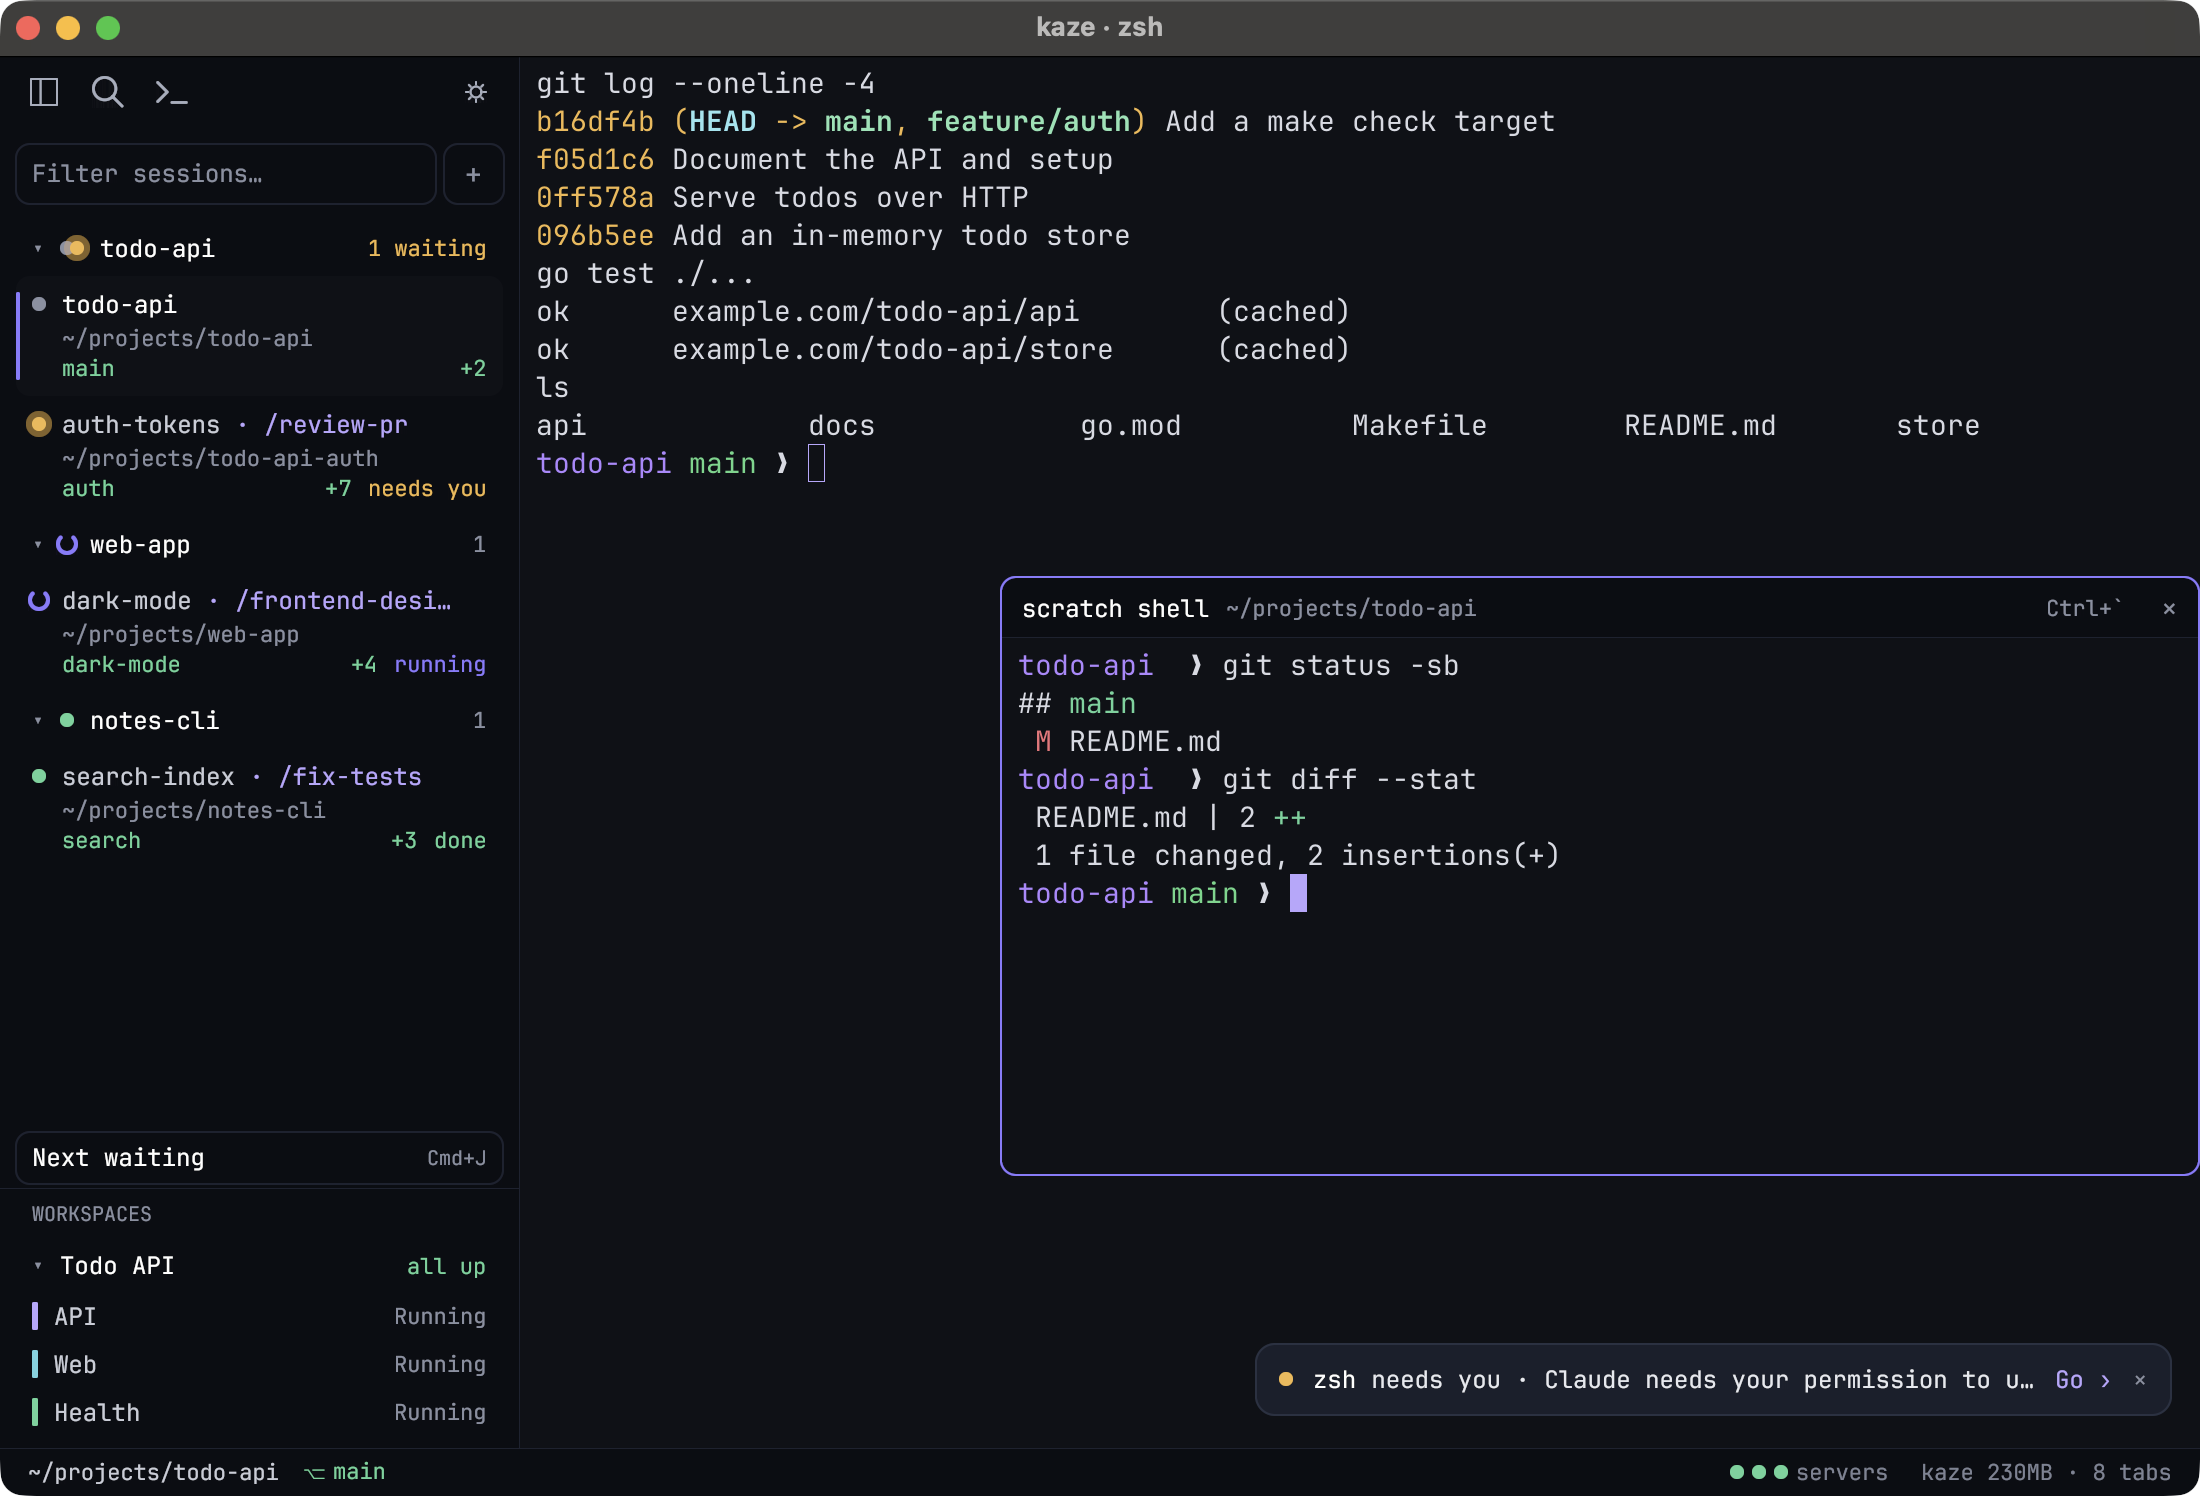
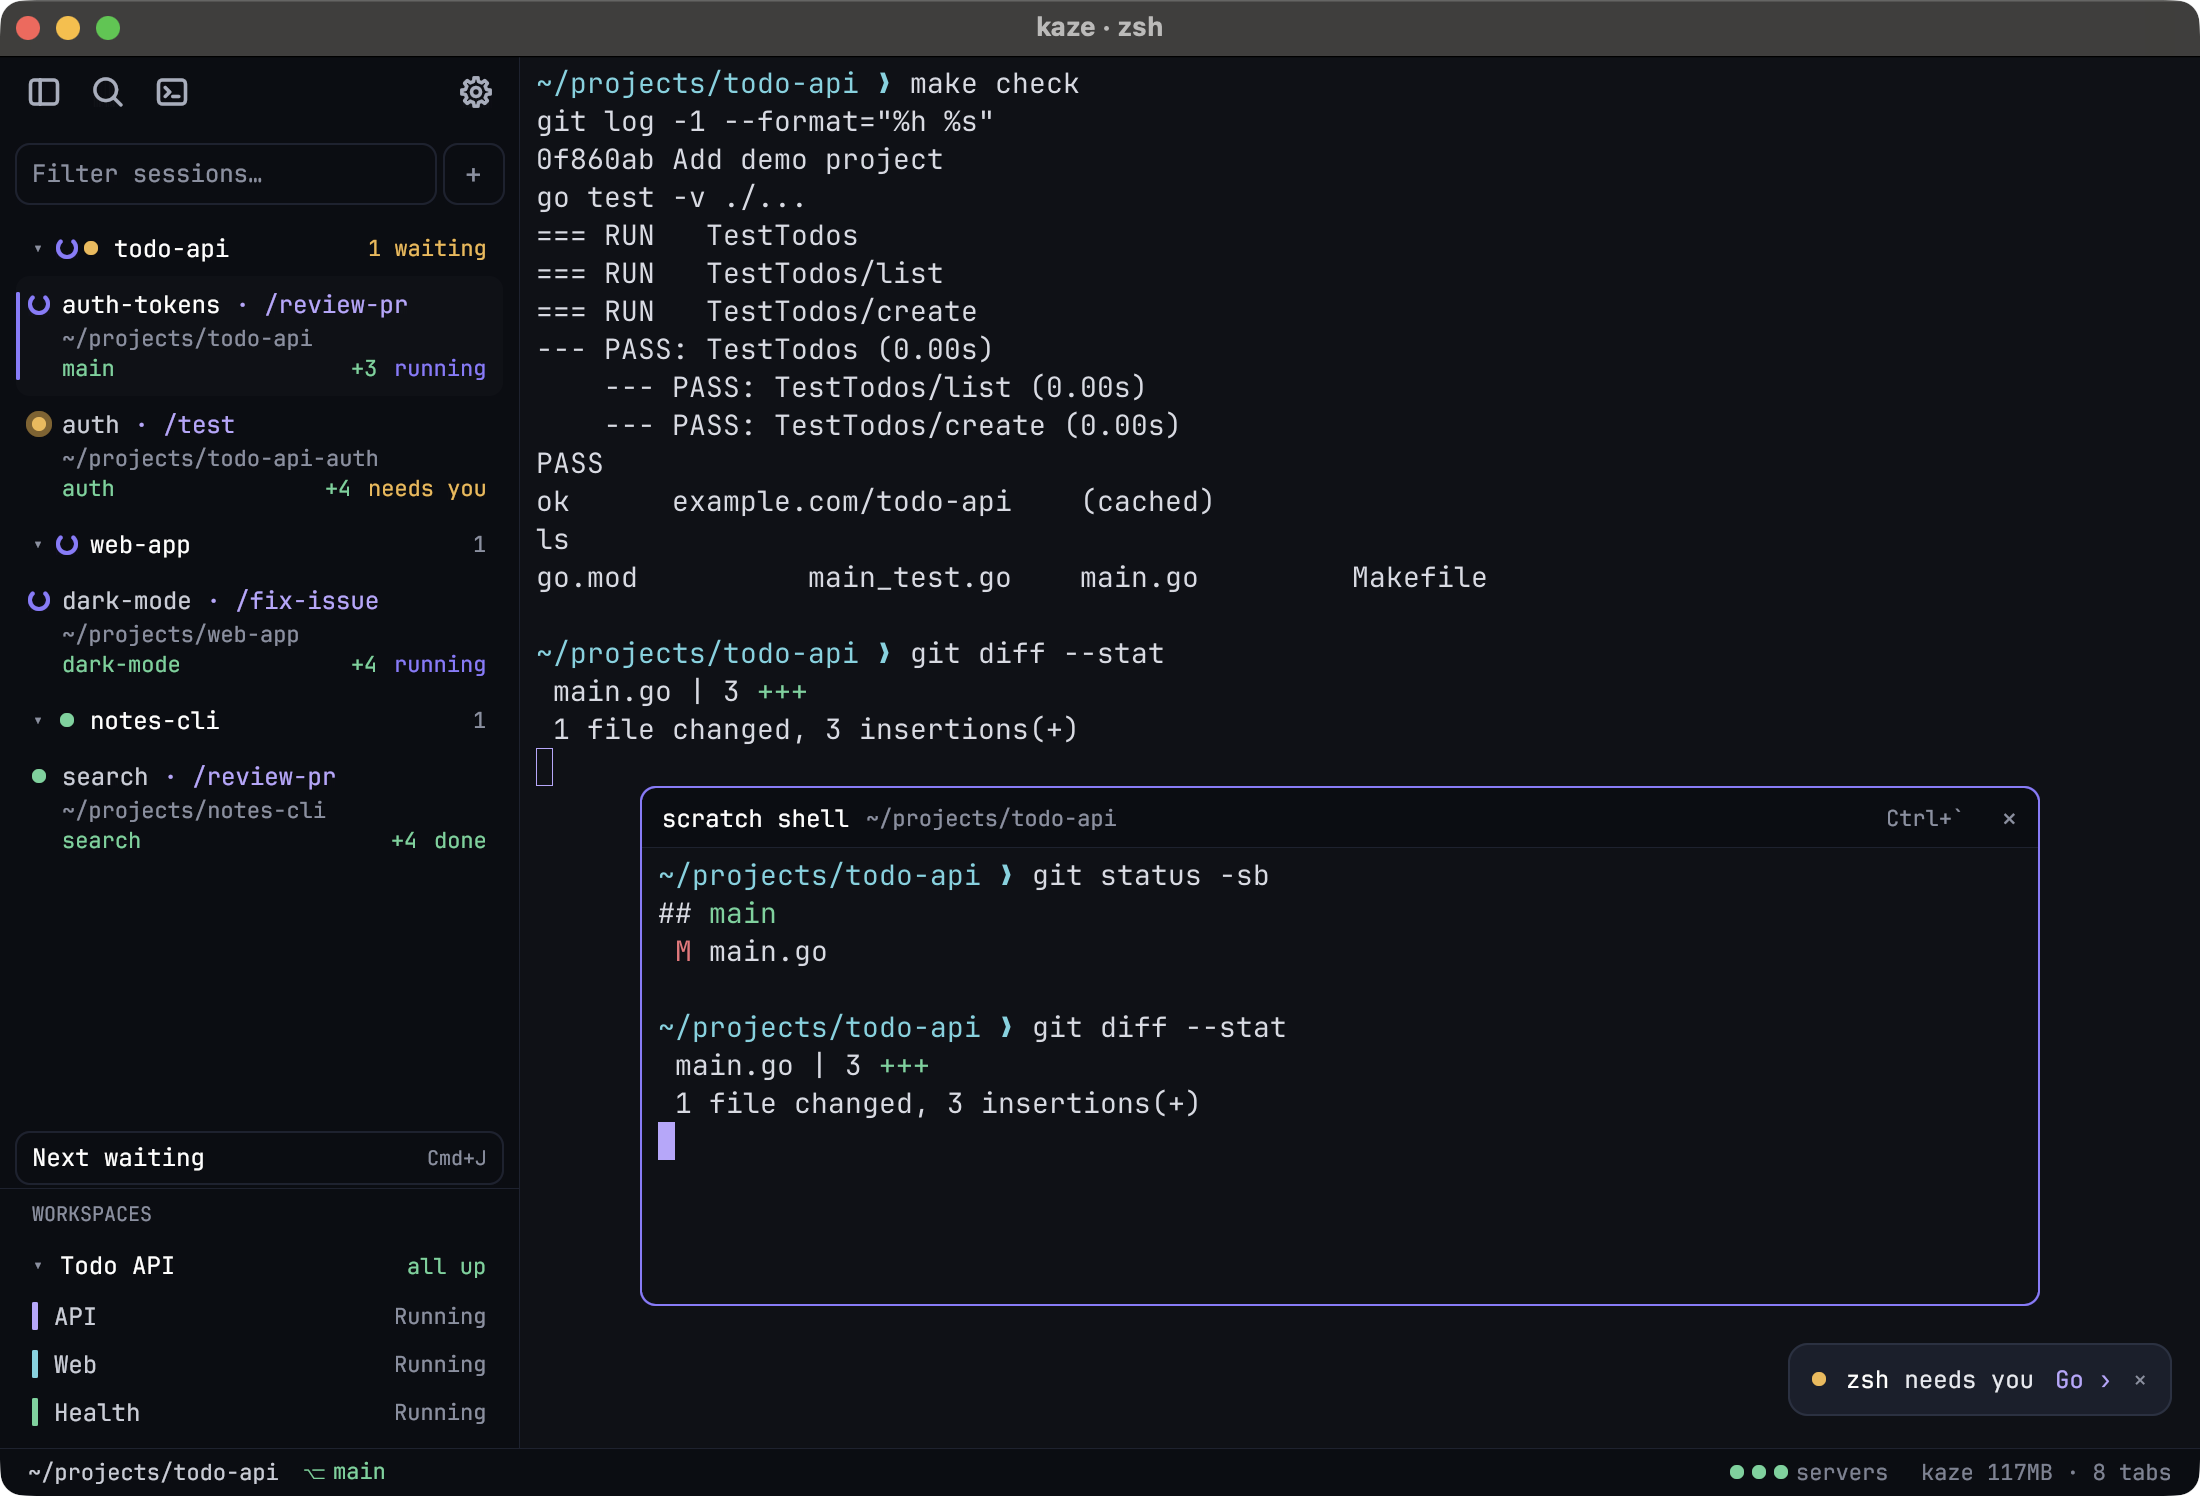
docs(site): Update the lander screenshots for Kaze 0.12

diff --git a/docs/index.html b/docs/index.html
@@ -25,9 +25,9 @@
     <div class="hero-actions"><a class="button primary" href="https://github.com/patrick-gogo/kaze-terminal/releases/latest/download/Kaze-macOS.zip" data-download="mac"><svg class="os-icon" viewBox="0 0 24 24" aria-hidden="true"><path d="M12.152 6.896c-.948 0-2.415-1.078-3.96-1.04-2.04.027-3.91 1.183-4.961 3.014-2.117 3.675-.546 9.103 1.519 12.09 1.013 1.454 2.208 3.09 3.792 3.039 1.52-.065 2.09-.987 3.935-.987 1.831 0 2.35.987 3.96.948 1.637-.026 2.676-1.48 3.676-2.948 1.156-1.688 1.636-3.325 1.662-3.415-.039-.013-3.182-1.221-3.22-4.857-.026-3.04 2.48-4.494 2.597-4.559-1.429-2.09-3.623-2.324-4.39-2.376-2-.156-3.675 1.09-4.61 1.09zM15.53 3.83c.843-1.012 1.4-2.427 1.245-3.83-1.207.052-2.662.805-3.532 1.818-.78.896-1.454 2.338-1.273 3.714 1.338.104 2.715-.688 3.559-1.701"/></svg>Download for macOS</a><a class="button secondary" href="https://github.com/patrick-gogo/kaze-terminal/releases/latest/download/Kaze-Windows-x64.zip" data-download="windows"><svg class="os-icon" viewBox="0 0 24 24" aria-hidden="true"><path d="M0 0h11.377v11.372H0zm12.623 0H24v11.372H12.623zM0 12.623h11.377V24H0zm12.623 0H24V24H12.623z"/></svg>Download for Windows</a></div>
     <p class="platform-note">Free and open source<span aria-hidden="true">/</span><b id="download-count" hidden></b><span id="download-sep" aria-hidden="true" hidden>/</span><a href="#first-launch">How to install</a><span aria-hidden="true">/</span><a href="https://github.com/patrick-gogo/kaze-terminal">View source</a></p>
     <figure class="product" id="product">
-      <div class="product-caption"><div class="capture-switcher" role="group" aria-label="Product screenshots"><button type="button" data-shot="sessions" aria-pressed="true">Sessions</button><button type="button" data-shot="palette" aria-pressed="false">Palette</button><button type="button" data-shot="scratch" aria-pressed="false">Scratch shell</button><button type="button" data-shot="workspaces" aria-pressed="false">Workspaces</button><button type="button" data-shot="about" aria-pressed="false">About</button></div><span id="capture-description" aria-live="polite">The session sidebar with a server floating over a session</span></div>
+      <div class="product-caption"><div class="capture-switcher" role="group" aria-label="Product screenshots"><button type="button" data-shot="sessions" aria-pressed="true">Sessions</button><button type="button" data-shot="palette" aria-pressed="false">Palette</button><button type="button" data-shot="scratch" aria-pressed="false">Scratch shell</button><button type="button" data-shot="workspaces" aria-pressed="false">Workspaces</button><button type="button" data-shot="settings" aria-pressed="false">Settings</button><button type="button" data-shot="about" aria-pressed="false">About</button></div><span id="capture-description" aria-live="polite">The session sidebar with a server floating over a session</span></div>
       <div class="screenshot"><img id="product-shot" src="site-assets/kaze-sessions.png" alt="Kaze on macOS: a sidebar of sessions marked needs you, running and done, with an API server's log floating over the todo-api session" width="2200" height="1496" fetchpriority="high"></div>
-      <figcaption>Captured from Kaze 0.10 on macOS, with demo projects and real local command output. <a class="caption-link" href="https://github.com/patrick-gogo/kaze-terminal/blob/main/docs/site-assets/SCREENSHOTS.md">How these were taken</a></figcaption>
+      <figcaption>Captured from Kaze 0.12 on macOS, with demo projects and real local command output. <a class="caption-link" href="https://github.com/patrick-gogo/kaze-terminal/blob/main/docs/site-assets/SCREENSHOTS.md">How these were taken</a></figcaption>
     </figure>
   </section>
 

diff --git a/docs/site-assets/site.css b/docs/site-assets/site.css
@@ -17,7 +17,7 @@
 .platform-note b{font-weight:600;color:#c9c2d6}
 .button .os-icon{width:15px;height:15px;fill:currentColor;flex:none;margin-top:-2px}.hero-actions .button,.download-block .button{gap:10px}
 
-@media(max-width:380px){.site-header .brand{gap:6px}.site-header nav{gap:8px;font-size:10px}.site-header .source-link{gap:6px;padding-inline:6px}}
+@media(max-width:420px){.site-header .brand{gap:6px}.site-header nav{gap:8px;font-size:10px}.site-header .source-link{gap:6px;padding-inline:6px}}
 .guide-link{display:inline-block;margin-top:16px;font-size:11.5px;color:#c4bad5;text-decoration:underline;text-underline-offset:3px}.guide{padding:30px 0 110px}.guide-grid{display:grid;grid-template-columns:1.15fr 1fr;gap:20px;margin-top:44px}.guide-card{border:1px solid var(--line);border-radius:10px;background:var(--surface);padding:26px 26px 24px;min-width:0}.guide-card h3{display:flex;align-items:center;gap:10px;font-size:17px;font-weight:600;letter-spacing:-.3px;margin-bottom:18px}.guide-card h3 .os-icon{width:17px;height:17px;fill:currentColor}.steps{list-style:none;counter-reset:step;margin:0;padding:0}.steps li{counter-increment:step;position:relative;padding:0 0 18px 40px;font-size:13px;line-height:1.8;color:var(--muted)}.steps li::before{content:counter(step);position:absolute;left:0;top:1px;width:24px;height:24px;border-radius:50%;border:1px solid #3c324d;background:#1a1622;color:#d6c9ec;font:600 11px/22px JetBrains,monospace;text-align:center}.steps li:not(:last-child)::after{content:"";position:absolute;left:12px;top:30px;bottom:6px;width:1px;background:#2a2533}.steps b{color:#e6def2;font-weight:600}.steps q{color:#cfc6dc;font-style:italic;quotes:none}.steps a,.guide-note a,.guide-foot a{color:#c4bad5;text-decoration:underline;text-underline-offset:3px}.steps code,.guide-card code{font:11px JetBrains,monospace;color:#d0c3df;background:#1a1622;border:1px solid #2e2838;border-radius:4px;padding:1px 5px}.guide-shortcut{margin-top:4px;border:1px solid #302a3b;border-radius:8px;background:#0f1015;overflow:hidden}.guide-shortcut .command-heading{padding:14px 16px 2px}.guide-shortcut pre{padding:10px 16px 14px;white-space:pre-wrap;word-break:break-all}.guide-note{font-size:12px;line-height:1.8;color:#9b94a8;border-top:1px solid var(--line);padding-top:16px;margin-top:2px}.guide-note b{color:#d8cfe4;font-weight:600}.guide-foot{text-align:center;font-size:12px;color:#8a8496;margin-top:26px}
 @media(max-width:900px){.guide-grid{grid-template-columns:minmax(0,1fr)}}
 @media(max-width:680px){.guide{padding:10px 0 65px}.guide-grid{margin-top:30px}.guide-card{padding:20px 16px}.steps li{padding-left:36px;font-size:12.5px}}

diff --git a/docs/site-assets/site.js b/docs/site-assets/site.js
@@ -39,10 +39,11 @@ document.querySelectorAll('[data-copy]').forEach(button => {
 
 const captures = {
   sessions: { alt: 'Kaze on macOS: a sidebar of sessions marked needs you, running and done, with an API server\'s log floating over the todo-api session', caption: 'The session sidebar with a server floating over a session' },
-  palette: { alt: 'The Kaze palette listing a waiting session, every session and server, and Claude Code skills', caption: 'The palette, opened with Cmd+K' },
+  palette: { alt: 'The Kaze palette listing a waiting session, every session and server, and demo skills', caption: 'The palette, opened with Cmd+K' },
   scratch: { alt: 'A scratch shell floating over the todo-api session, showing git status and git diff', caption: 'A scratch shell in the session\'s folder' },
-  workspaces: { alt: 'The Kaze Workspaces settings page with a running three-tab demo workspace', caption: 'Workspaces settings on macOS' },
-  about: { alt: 'The Kaze About page showing the logo, version 0.10 and build details', caption: 'About Kaze 0.10 on macOS' }
+  workspaces: { alt: 'The Kaze Workspaces settings page with a card for the running three-member Todo API demo workspace', caption: 'The workspace card with API, Web and Health running' },
+  settings: { alt: 'Kaze Appearance settings with five theme cards, Midnight selected, and a live terminal preview', caption: 'Appearance settings with theme cards and a live preview' },
+  about: { alt: 'The Kaze About page showing the logo, version 0.12 and platform, chip and license details', caption: 'About Kaze 0.12 on macOS' }
 };
 function showShot(shot) {
   const image = document.getElementById('product-shot');

diff --git a/docs/site-assets/SCREENSHOTS.md b/docs/site-assets/SCREENSHOTS.md
@@ -1,6 +1,6 @@
 # Product captures
 
-Native macOS window captures taken October 31, 2026, from Kaze 0.10 (main build 28517a2).
+Native macOS window captures (2200 × 1496 px, Retina) taken October 31, 2026, from Kaze 0.12 (main build 044336a).
 
 - `kaze-sessions.png`: the session sidebar with three demo repos (one a git worktree), the "Todo API"
   workspace running, and its API member floating over the `todo-api` session.
@@ -8,21 +8,28 @@ Native macOS window captures taken October 31, 2026, from Kaze 0.10 (main build 
   `SKILL.md` files in the throwaway home folder.
 - `kaze-scratch.png`: the scratch shell over the `todo-api` session, showing `git status -sb` and
   `git diff --stat`.
-- `kaze-workspaces.png`: the Workspaces section of Settings with the demo workspace running.
-- `kaze-about.png`: the About section displaying the logo and build information.
+- `kaze-workspaces.png`: the redesigned Workspaces section of Settings with the Todo API workspace card
+  and its API, Web and Health members running.
+- `kaze-about.png`: the redesigned About section displaying the shipped logo and byline, version 0.12,
+  platform, chip and license facts.
+- `kaze-settings.png`: Appearance settings with five theme cards, Midnight selected, and the live
+  terminal preview.
 
 How they were made:
 
 - Everything ran in a throwaway home folder with demo projects (demo git author, example.com
-  module). No personal or work names appear. The owner's settings and workspace files were not
-  changed.
+  module). No personal or work data appears in the demo projects; the shipped About branding is
+  unchanged. The owner's settings and workspace files were not changed. Demo folders: `todo-api`,
+  its `todo-api-auth` worktree on `feature/auth`, `web-app` on `feature/dark-mode`, and `notes-cli` on `fix/search`, each with an uncommitted diff.
 - The terminal output is real: `make check` (git log, Go tests, ls), git commands, and two
-  `python3 -m http.server` processes with a `curl` loop that makes the API log.
+  `python3 -m http.server` processes with a `curl` loop that makes the API log. The Appearance
+  live preview is Kaze's built-in sample, not output from an additional command.
 - Claude Code was not run. The sidebar states (needs you, running, done), the slash commands and
   the alert toast come from demo shell scripts calling Kaze's real hook command (`kaze notify
   prompt`, `notify needs`, `notify done`) with the same input Claude Code's hooks send.
 - A temporary build overlay (not part of shipped code) opened the demo sessions, floated the pane,
   showed the scratch shell, and opened the palette or a Settings page. It did not change the UI
-  renderer. Takes with stray keystrokes were thrown away and retaken. No generated or retouched UI.
+  renderer. Each capture was inspected for stray input and cut-off text. No generated or retouched UI.
 - Captured directly with macOS `screencapture`, without desktop shadows or surrounding
-  applications.
+  applications. No global keyboard or mouse input was injected. The demo app, server and sleep
+  processes were stopped after each take.
